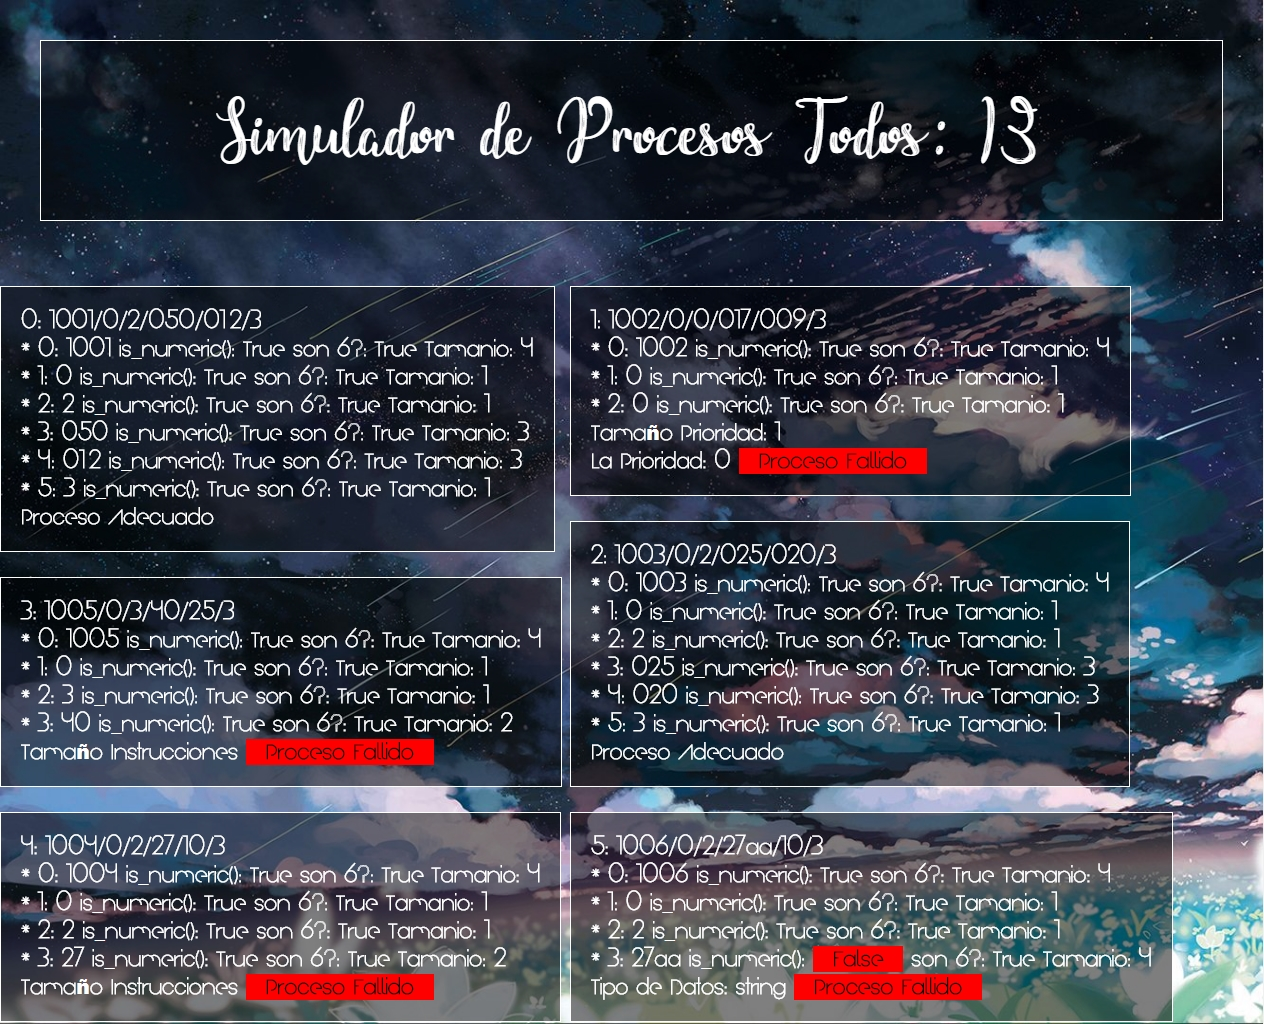
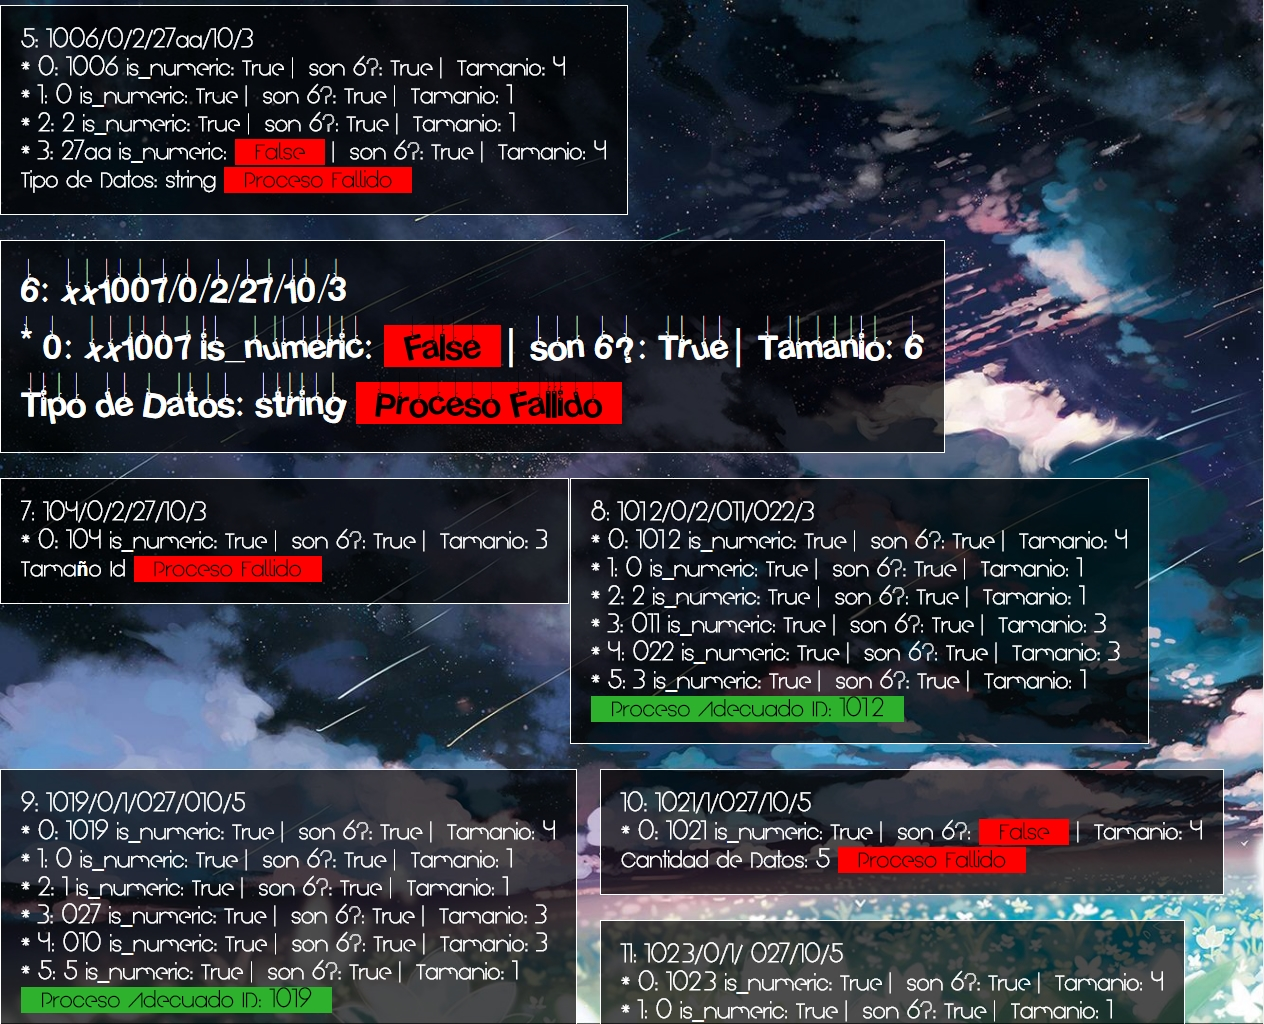
Revisar Id Repetidos

diff --git a/css/disenio-gestor.css b/css/disenio-gestor.css
@@ -14,6 +14,7 @@ h1{
     border-style: solid;
     padding: 20px;
     margin-top: 25px;
+    margin-left: 20px;
     font-family:'Arual', sans-serif;
     font-weight: bold;
   }
@@ -32,6 +33,16 @@ h1{
   }
   .gigante {
     font-size: 40px;
-    font-family:'Aristotle-Punk', fantasy;
+    font-family:'Hanged-Letters', fantasy;
     font-weight: lighter;
+}
+.titulillo{
+  text-align: center;
+  font-family: 'Basscrw',fantasy;
+  font-size: 80px;
+  font-weight: lighter;
+}
+.espacio{
+  padding: 40px;
+  margin: 40px;
 }

diff --git a/js/controlador-gestor.js b/js/controlador-gestor.js
@@ -1,7 +1,7 @@
 var $grid = $('.grid').imagesLoaded( function() {
   // init Masonry after all images have loaded
   $grid.masonry({
-    columnWidth: 30
+    columnWidth: 10
   });
 });
 $grid.on( 'click', '.grid-item', function() {

diff --git a/index.php b/index.php
@@ -18,8 +18,12 @@
 		    src: url(fonts/Children-of-the-Starlight.ttf);
 		  }
 		@font-face{
-		    font-family: 'Aristotle-Punk';
+		    font-family: 'Hanged-Letters';
 		    src: url(fonts/Hanged-Letters.ttf);
+		  }
+		@font-face{
+		    font-family: 'Basscrw';
+		    src: url(fonts/Basscrw.ttf);
 		  }
 	</style>
 	<link rel="icon" href="img/icon.png">
@@ -47,13 +51,19 @@
 			echo '<div class="grid-item cuadro-transparente">';
 			echo $i.': '.$raw[$i].'<br>';
 			$dato = explode("/", $raw[$i]);
-			for ($j=0; $j < sizeof($dato); $j++) {
-				echo "* ".$j.': '.$dato[$j].' is_numeric: '.((is_numeric($dato[$j]))?'True':'False').'| son 6?: '.((sizeof($dato)==6)?'True':'False').'| Tamanio: '.strlen(trim($dato[$j])).'<br>';
-				if(!(sizeof($dato)==6)){
-					echo "Cantidad de Datos: ".sizeof($dato).' ';
+			for ($k=0; $k < sizeof($proceso); $k++) { 
+				if (trim($dato[0])==($proceso[$k])->getId_proceso()) {
+					echo "ID Repetido: ". trim($dato[0]).' ';
 					$guardar = false;
 					break;
 				}
+			}
+			if (!(sizeof($dato)==6)) {
+				echo "Cantidad de Datos: ".sizeof($dato).' ';
+				$guardar = false;
+			}
+			for ($j=0; ($j < sizeof($dato))&&$guardar; $j++) {
+				echo "* ".$j.': '.$dato[$j].' is_numeric: '.((is_numeric($dato[$j]))?'True':'False').'| Tamanio: '.strlen(trim($dato[$j])).'<br>';
 				if(!(is_numeric($dato[$j]))){
 					echo "Tipo de Datos: ". gettype($dato[$j]).' ';
 					$guardar = false;
@@ -104,7 +114,7 @@
 			//echo (($guardar)?'<span class="highlightn">Proceso Adecuado</span>':'Proceso Fallido');
 			echo "</div><br>";
 		}
-		echo "</div><div class='cuadro-transparente'>Procesos:";
+		echo "</div><div class='cuadro-transparente espacio'><div class='titulillo'>Procesos:</div>";
 		for ($i=0; $i < sizeof($proceso); $i++) { 
 			echo "<br>".$i.': '.$proceso[$i];
 		}
